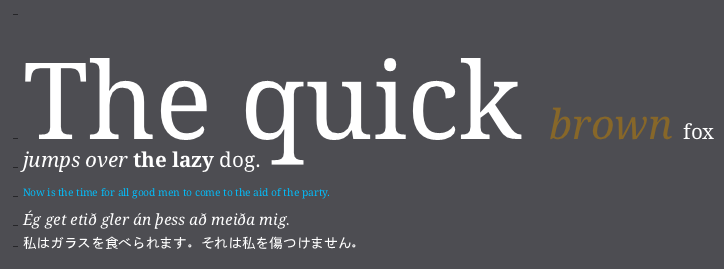
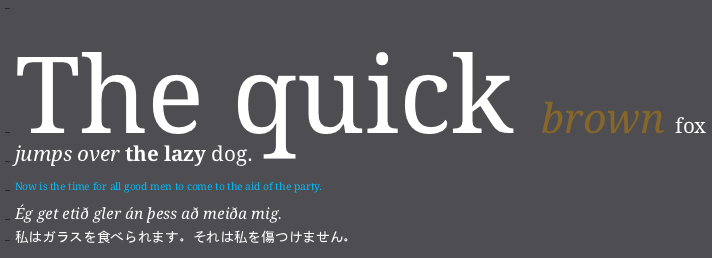
Updated readme, screenshot and remove unnecessary header files from demo

diff --git a/main.c b/main.c
@@ -18,10 +18,9 @@
 
 #include <stdio.h>
 #include <string.h>
-#include <math.h>
-#include <GLFW/glfw3.h>
 #define FONTSTASH_IMPLEMENTATION
 #include "fontstash.h"
+#include <GLFW/glfw3.h>
 #define GLSTASH_IMPLEMENTATION
 #include "glstash.h"
 

diff --git a/README.md b/README.md
@@ -1,9 +1,9 @@
 Font Stash
 ==========
 
-Font stash is light-weight online font texture atlas builder. It uses stb_truetype to render fonts on demand to a texture atlas.
+Font stash is light-weight online font texture atlas builder written in C. It uses [stb_truetype](http://nothings.org) to render fonts on demand to a texture atlas.
 
-The code is split in two parts, the font atlas and glyph quad generator (fontstash.h), and an example OpenGL backend (glstash.h).
+The code is split in two parts, the font atlas and glyph quad generator [fontstash.h](/fontstash.h), and an example OpenGL backend ([glstash.h](/glstash.h).
 
 ## Screenshot
 
@@ -33,5 +33,28 @@ The code is split in two parts, the font atlas and glyph quad generator (fontsta
 	glstash_draw(gl, stash);
 ```
 
+## Using Font Stash in your project
+
+In order to use fontstash in your own project, just copy fontstash.h, stb_truetype.h, and potentially glstash.h to your project.
+In one C/C++ define FONTSTASH_IMPLEMENTATION before including the library to expand the font stash implementation in that file.
+
+``` C
+#include <stdio.h>					// malloc, free, fopen, fclose, ftell, fseek, fread
+#include <string.h>					// memset
+#define FONTSTASH_IMPLEMENTATION	// Expands implementation
+#include "fontstash.h"
+```
+
+``` C
+#include <GLFW/glfw3.h>				// Or any other GL header of your choice.
+#define GLSTASH_IMPLEMENTATION		// Expands implementation
+#include "glstash.h"
+```
+
+## Compiling
+
+The demo code requires [GLFW](http://www.glfw.org/) to compile.
+
+
 ## Links
-Uses stb_truetype http://nothings.org for font rendering.
+Uses [stb_truetype](http://nothings.org) for font rendering.
